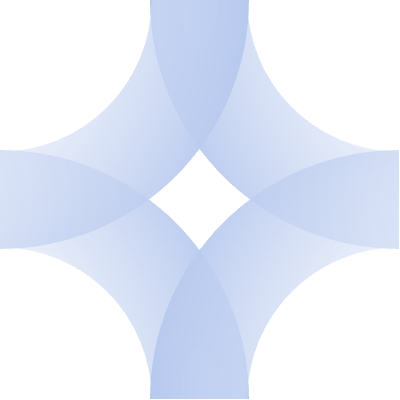
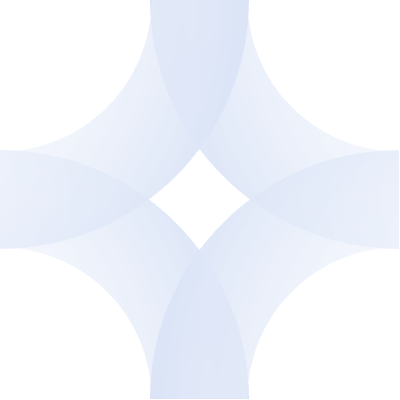
Водяной знак запекается в сам файл фото (было — только CSS-наложение)
Раньше фирменный знак накладывался исключительно через CSS ::after поверх
контейнера — на сайте выглядел нормально, но у скачанного файла или фото,
открытого напрямую по URL, знака не было вовсе (CSS в файл не встраивается).
По прямому запросу:
- обновлён assets/product-watermark.png — прозрачность снижена с 30% до 15%
  (тот же логотип, тот же угол/размер, просто менее навязчиво);
- все 191 уже загруженных фото товаров прогнаны через одноразовый скрипт
  (composite + перезалив в те же ключи S3 — URL и БД не менялись);
- в админке (загрузка фото товара) знак теперь запекается в файл на канвасе
  перед отправкой — для всех новых фото автоматически, без ручной обработки;
- CSS-наложение снято, чтобы не дублировать знак поверх уже впечённого.

Changed region(s): [[0.09, 0.0, 0.93, 1.0]]

diff --git a/project/index.html b/project/index.html
@@ -2115,19 +2115,15 @@ body{background:var(--surface)}
 .ptile-cmp{flex:0 0 auto;display:inline-flex;align-items:center;justify-content:center;width:24px;height:20px;
   padding:0;border:none;background:none;color:var(--slate-400);cursor:pointer;transition:color .2s}
 .ptile-cmp:hover,.ptile-cmp.on{color:var(--blue-600)}
-/* Фирменный водяной знак — стандарт для всех фото товаров на сайте
-   (решение заказчика): накладывается через CSS поверх контейнера снимка
-   одним ::after, а не встраивается в сам файл — работает сразу для всех
-   уже загруженных фото и для любых будущих без повторной обработки
-   каждой картинки. В правом верхнем углу, ~14% ширины контейнера,
-   прозрачность уже заложена в саму PNG (30%), поверх картинки CSS-ом
-   больше не занижаем — иначе на белом фоне знак стал бы почти невидим. */
+/* Фирменный водяной знак раньше накладывался только через CSS ::after поверх
+   контейнера — на сайте выглядел нормально, но при скачивании самого файла
+   фото (или его прямом открытии по URL) знака не было вовсе, CSS в файл не
+   встраивается. По прямому запросу знак теперь запекается в сам файл при
+   загрузке (админка, логотип soi.uz.svg → PNG 15% прозрачности, тот же угол
+   и размер) — и для всех фото, загруженных ранее, тоже (одноразовый прогон
+   поверх S3). Правило ниже снято, чтобы не накладывать знак дважды.
+   history: .ptile-media::after{ background:url(/assets/product-watermark.png) ... } */
 .ptile-media, .card-media, .prow-media, .pdp-main-img{position:relative}
-.ptile-media::after, .card-media::after, .prow-media::after, .pdp-main-img::after{
-  content:"";position:absolute;top:4%;right:4%;width:16%;aspect-ratio:1/1;
-  background:url(/assets/product-watermark.png) center/contain no-repeat;
-  pointer-events:none;z-index:2;
-}
 /* Раньше высота была фиксированной (160px) при переменной ширине колонки —
    от 1.375:1 в 5-колоночной сетке до ~4.4:1 в один столбец на мобильном.
    Реальные фото товаров квадратные (1000×1000), поэтому при такой рамке

diff --git a/project/admin/product-form.jsx b/project/admin/product-form.jsx
@@ -2,6 +2,47 @@
    built from the group's effective schema (/product-groups/:id/schema), price + stock + main image.
    Uses window.CatalogAPI + window.api. */
 
+/* Фирменный водяной знак раньше накладывался только CSS-ом поверх готовой
+   страницы — на сайте выглядел нормально, но сам файл фото (скачанный или
+   открытый напрямую по URL) знака не содержал вовсе. Теперь запекаем его в
+   файл на этапе загрузки: рисуем оригинал на канвасе, поверх — тот же PNG
+   (15% прозрачности уже заложено в сам файл), тем же углом/размером, что
+   раньше задавал CSS (top 4%, right 4%, width 16%, квадрат). */
+let _pfWatermarkImg = null;
+function pfLoadWatermark() {
+  if (_pfWatermarkImg) return _pfWatermarkImg;
+  _pfWatermarkImg = new Promise((resolve) => {
+    const img = new Image();
+    img.crossOrigin = "anonymous";
+    img.onload = () => resolve(img);
+    img.onerror = () => resolve(null);
+    img.src = "/assets/product-watermark.png";
+  });
+  return _pfWatermarkImg;
+}
+function pfCompositeWatermark(dataUrl) {
+  return new Promise((resolve) => {
+    const img = new Image();
+    img.onload = async () => {
+      const wm = await pfLoadWatermark();
+      const canvas = document.createElement("canvas");
+      canvas.width = img.naturalWidth;
+      canvas.height = img.naturalHeight;
+      const ctx = canvas.getContext("2d");
+      ctx.drawImage(img, 0, 0);
+      if (wm) {
+        const size = canvas.width * 0.16;
+        const x = canvas.width * (1 - 0.04) - size;
+        const y = canvas.height * 0.04;
+        ctx.drawImage(wm, x, y, size, size);
+      }
+      resolve(canvas.toDataURL("image/jpeg", 0.92));
+    };
+    img.onerror = () => resolve(dataUrl);
+    img.src = dataUrl;
+  });
+}
+
 function PfToggle({ checked, onChange, label }) {
   return (
     <label className="adm-toggle">
@@ -453,7 +494,10 @@ function AdminProductForm({ go, editId }) {
                      последний. */
                   files.forEach(f => {
                     const r = new FileReader();
-                    r.onload = ev => setForm(cur => ({ ...cur, images: [...cur.images, { url: ev.target.result, isMain: cur.images.length === 0 }] }));
+                    r.onload = async ev => {
+                      const watermarked = await pfCompositeWatermark(ev.target.result);
+                      setForm(cur => ({ ...cur, images: [...cur.images, { url: watermarked, isMain: cur.images.length === 0 }] }));
+                    };
                     r.readAsDataURL(f);
                   });
                 }} />

diff --git a/project/admin.html b/project/admin.html
@@ -54,7 +54,7 @@ const { useState, useEffect, useRef, useMemo } = React;
 <script type="text/babel" src="/admin/richtext.jsx"></script>
 <script type="text/babel" src="/admin/dashboard.jsx?v=1782600023"></script>
 <script type="text/babel" src="/admin/analytics.jsx?v=1782600006"></script>
-<script type="text/babel" src="/admin/product-form.jsx?v=1789220925"></script>
+<script type="text/babel" src="/admin/product-form.jsx?v=1789223797"></script>
 <script type="text/babel" src="/admin/products.jsx?v=1782600003"></script>
 <script type="text/babel" src="/admin/catalog-manager.jsx?v=1785900014"></script>
 <script type="text/babel" src="/admin/manufacturers.jsx?v=1782600001"></script>
